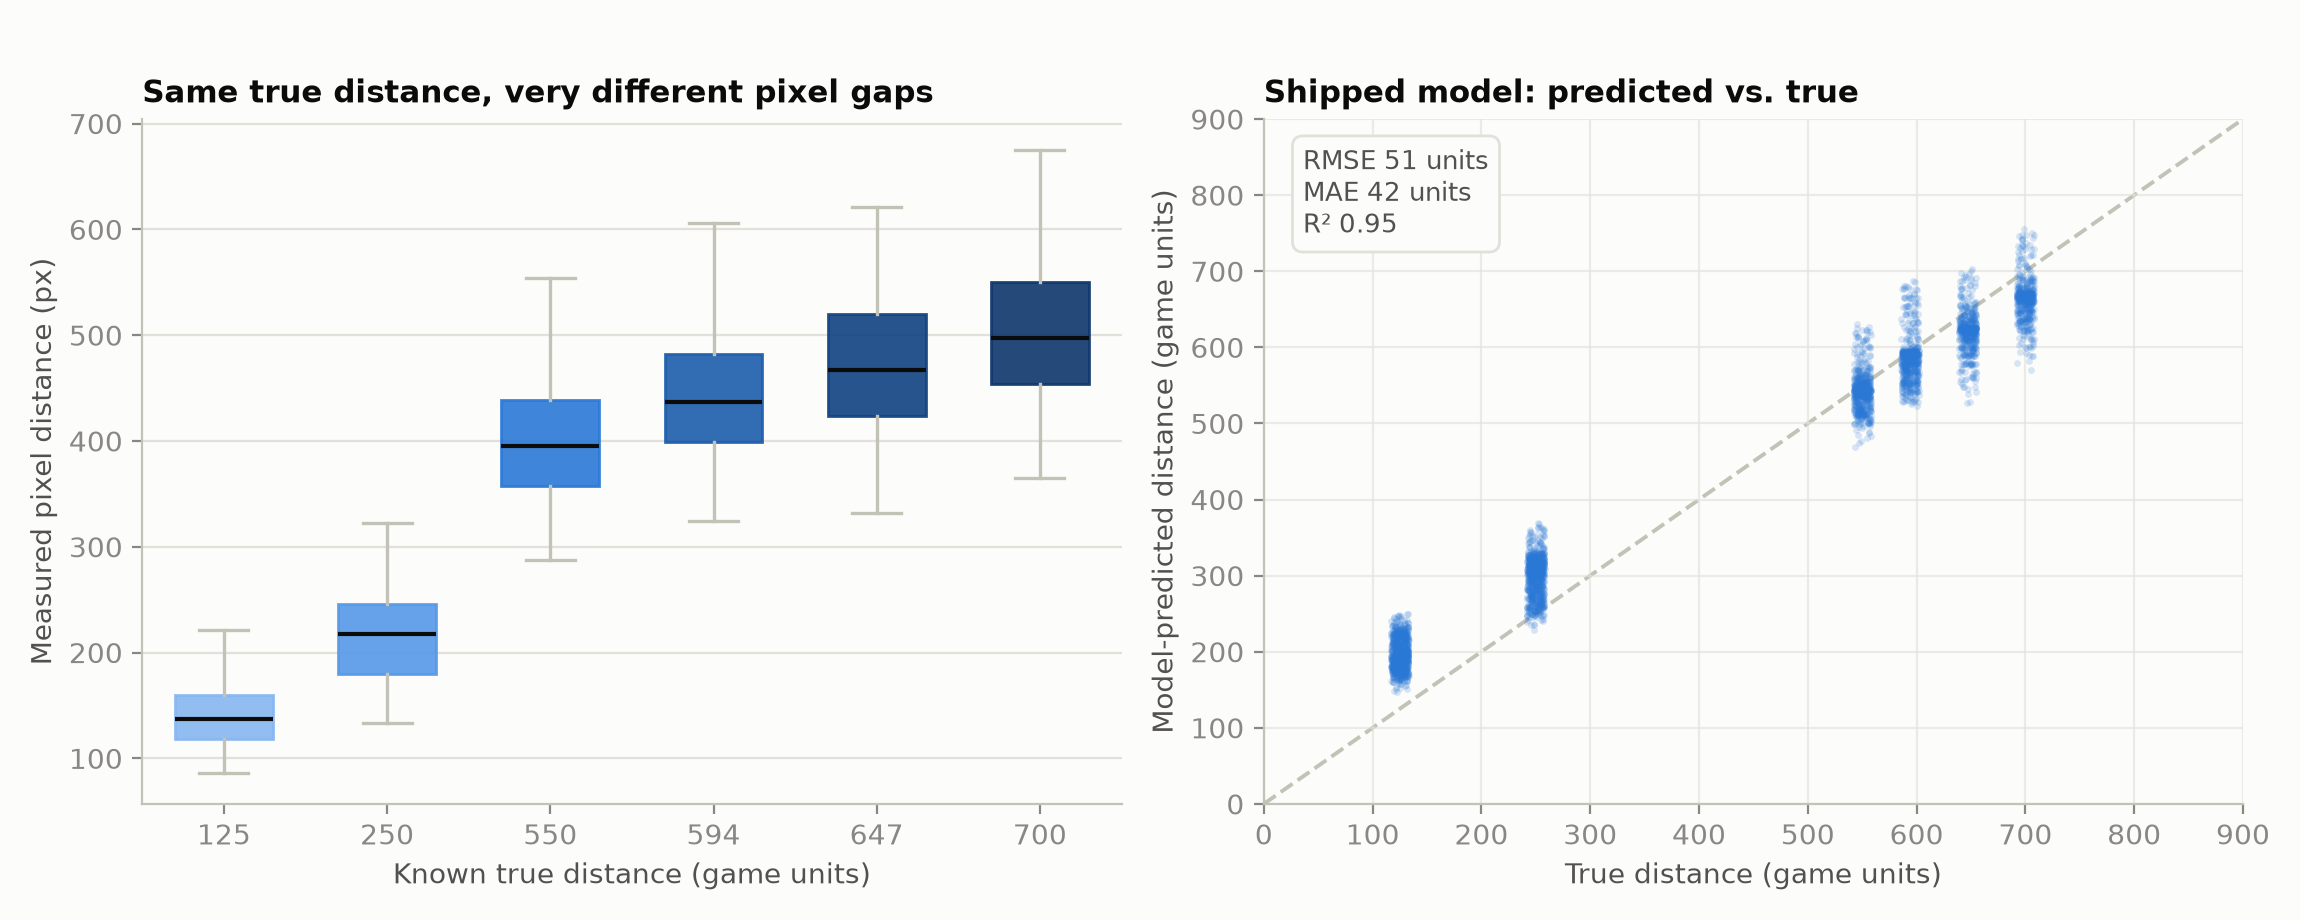
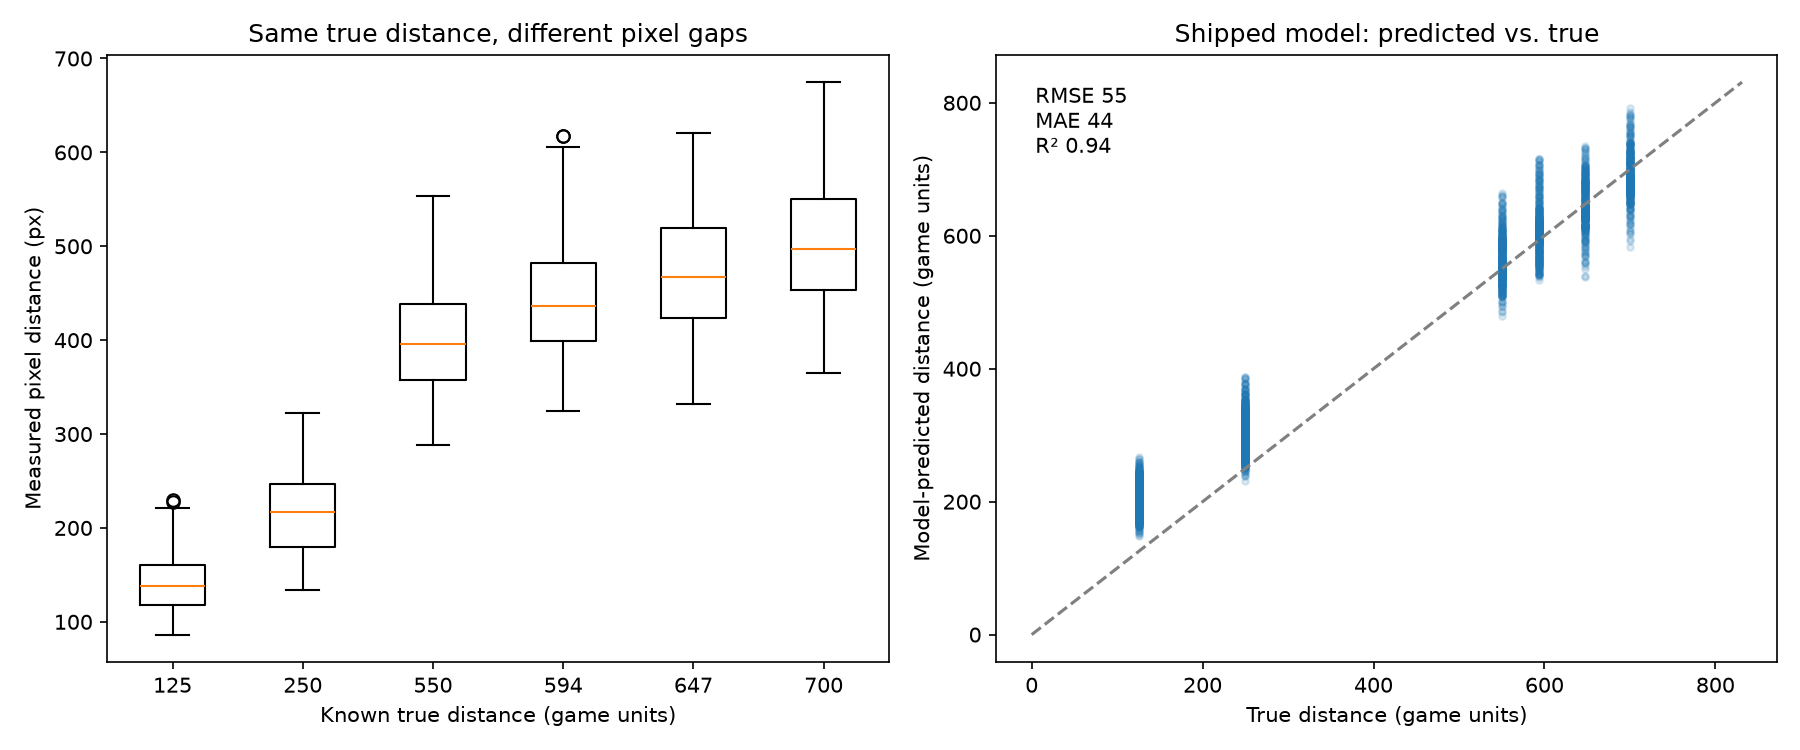
regen distance model

diff --git a/core/constants.py b/core/constants.py
@@ -100,7 +100,17 @@ DATA_DRAGON_DEFAULT_LOCALE = "en_US"
 THRESHHOLD = 70
 
 # Get screen dimensions (cross-platform: Windows and Linux)
-SCREEN_WIDTH, SCREEN_HEIGHT = pyautogui.size()
+try:
+    SCREEN_WIDTH, SCREEN_HEIGHT = pyautogui.size()
+except Exception as e:
+    raise RuntimeError(
+        "Could not detect screen size. This requires a working, authorized "
+        "graphical session (pyautogui connects to it just to query screen "
+        "dimensions). On Linux, check that $DISPLAY and $XAUTHORITY are set "
+        "correctly for the shell you're running from (echo $DISPLAY $XAUTHORITY), "
+        "or grant access with `xhost +si:localuser:$(whoami)` from an already-"
+        "authorized terminal."
+    ) from e
 SCREEN_CENTER = (SCREEN_WIDTH // 2, SCREEN_HEIGHT // 2)
 
 

diff --git a/tools/plot_distance_model.py b/tools/plot_distance_model.py
@@ -40,7 +40,7 @@ def main():
     for px, py, ex, ey, gd in samples:
         if gd in by_true:
             by_true[gd].append(pixel_dist(px, py, ex, ey))
-    ax1.boxplot([by_true[gd] for gd in TRUE_DISTANCES], labels=[str(d) for d in TRUE_DISTANCES])
+    ax1.boxplot([by_true[gd] for gd in TRUE_DISTANCES], tick_labels=[str(d) for d in TRUE_DISTANCES])
     ax1.set_xlabel("Known true distance (game units)")
     ax1.set_ylabel("Measured pixel distance (px)")
     ax1.set_title("Same true distance, different pixel gaps")
